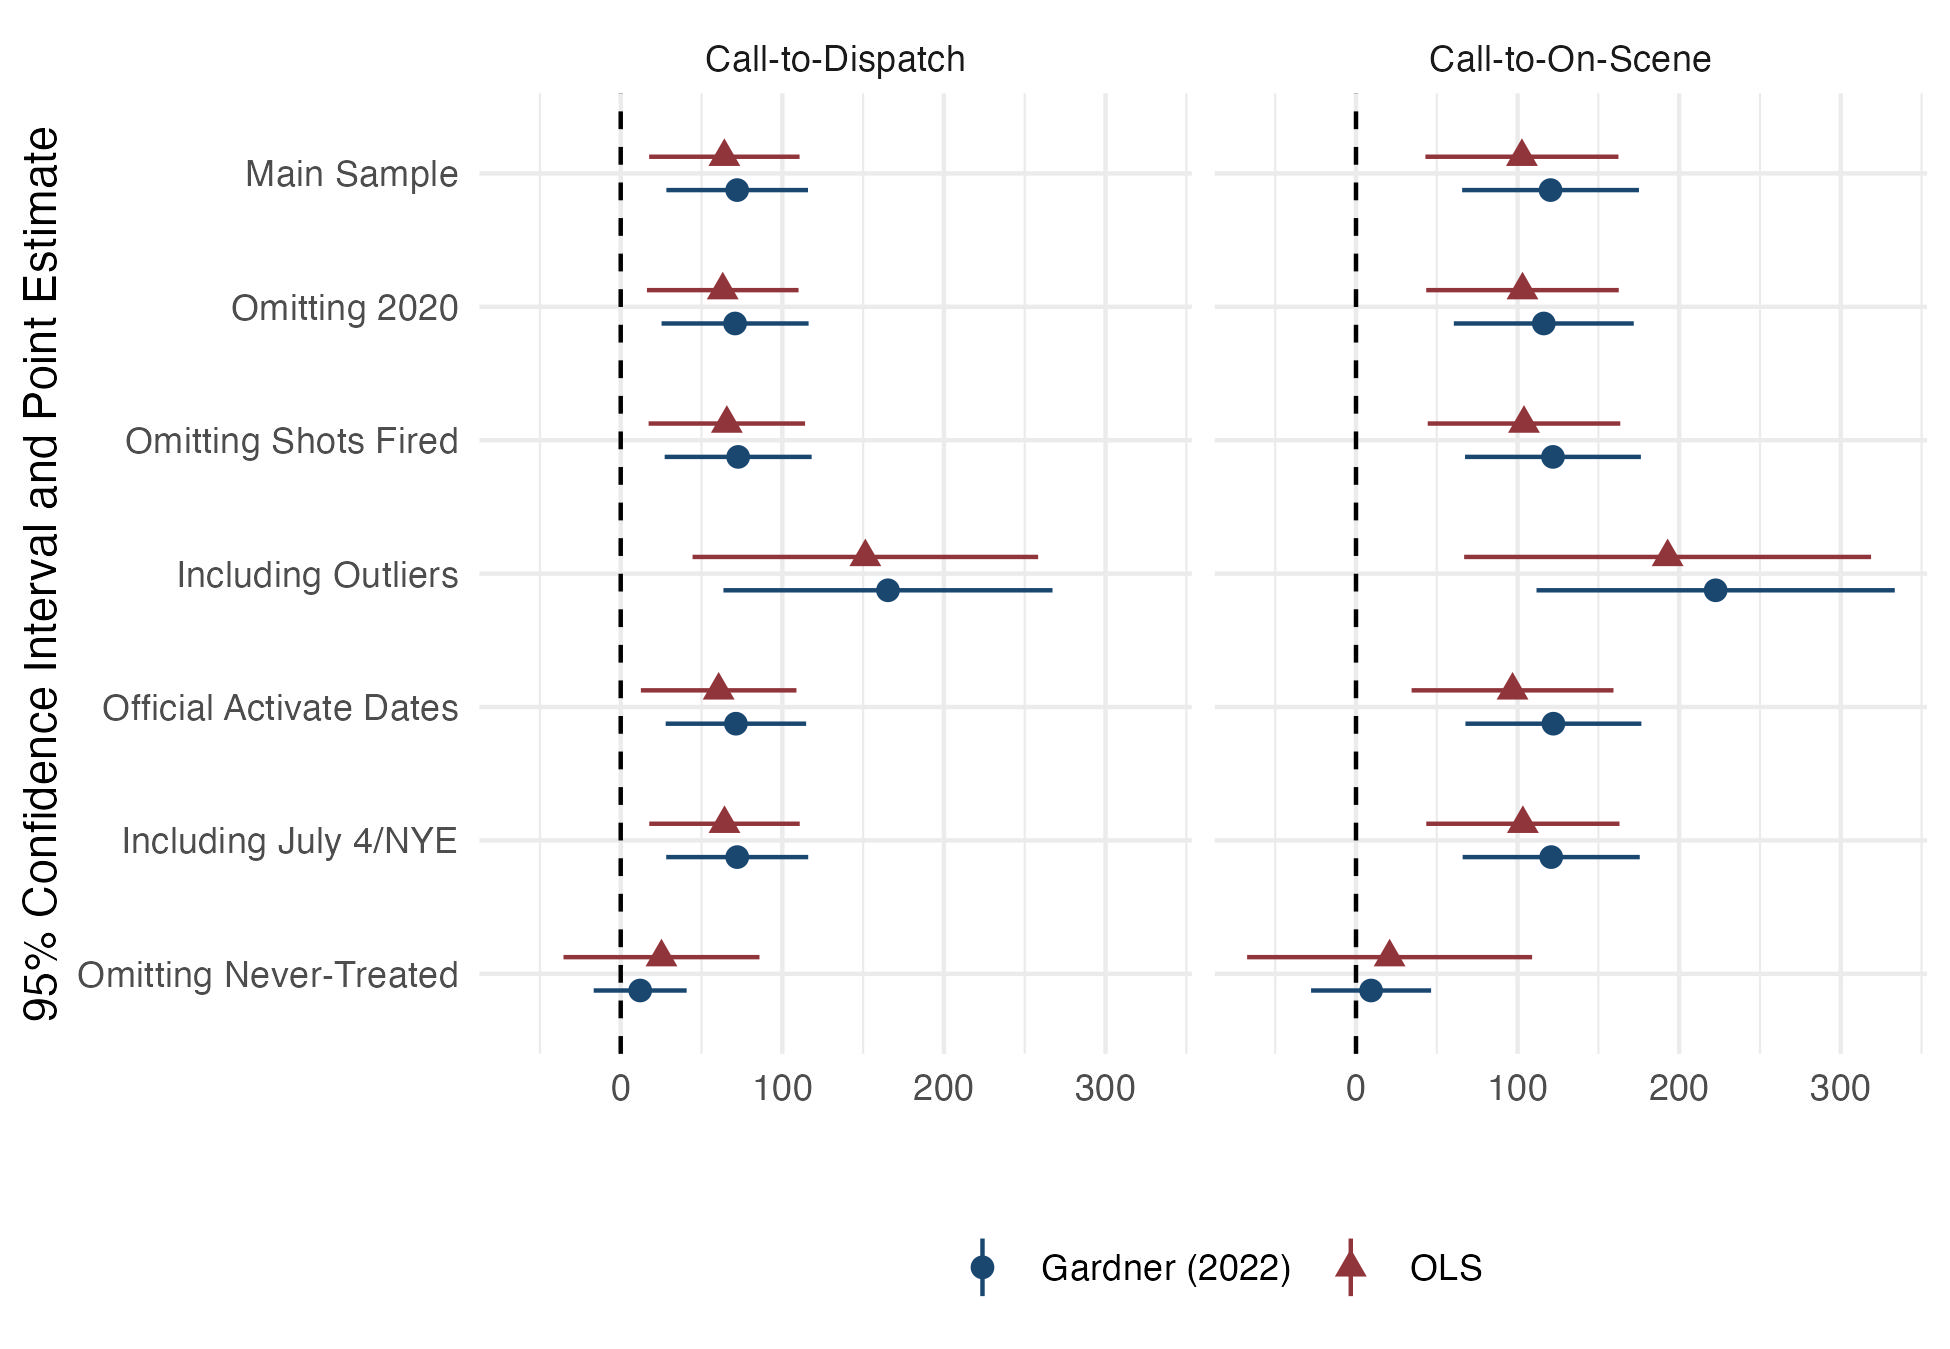
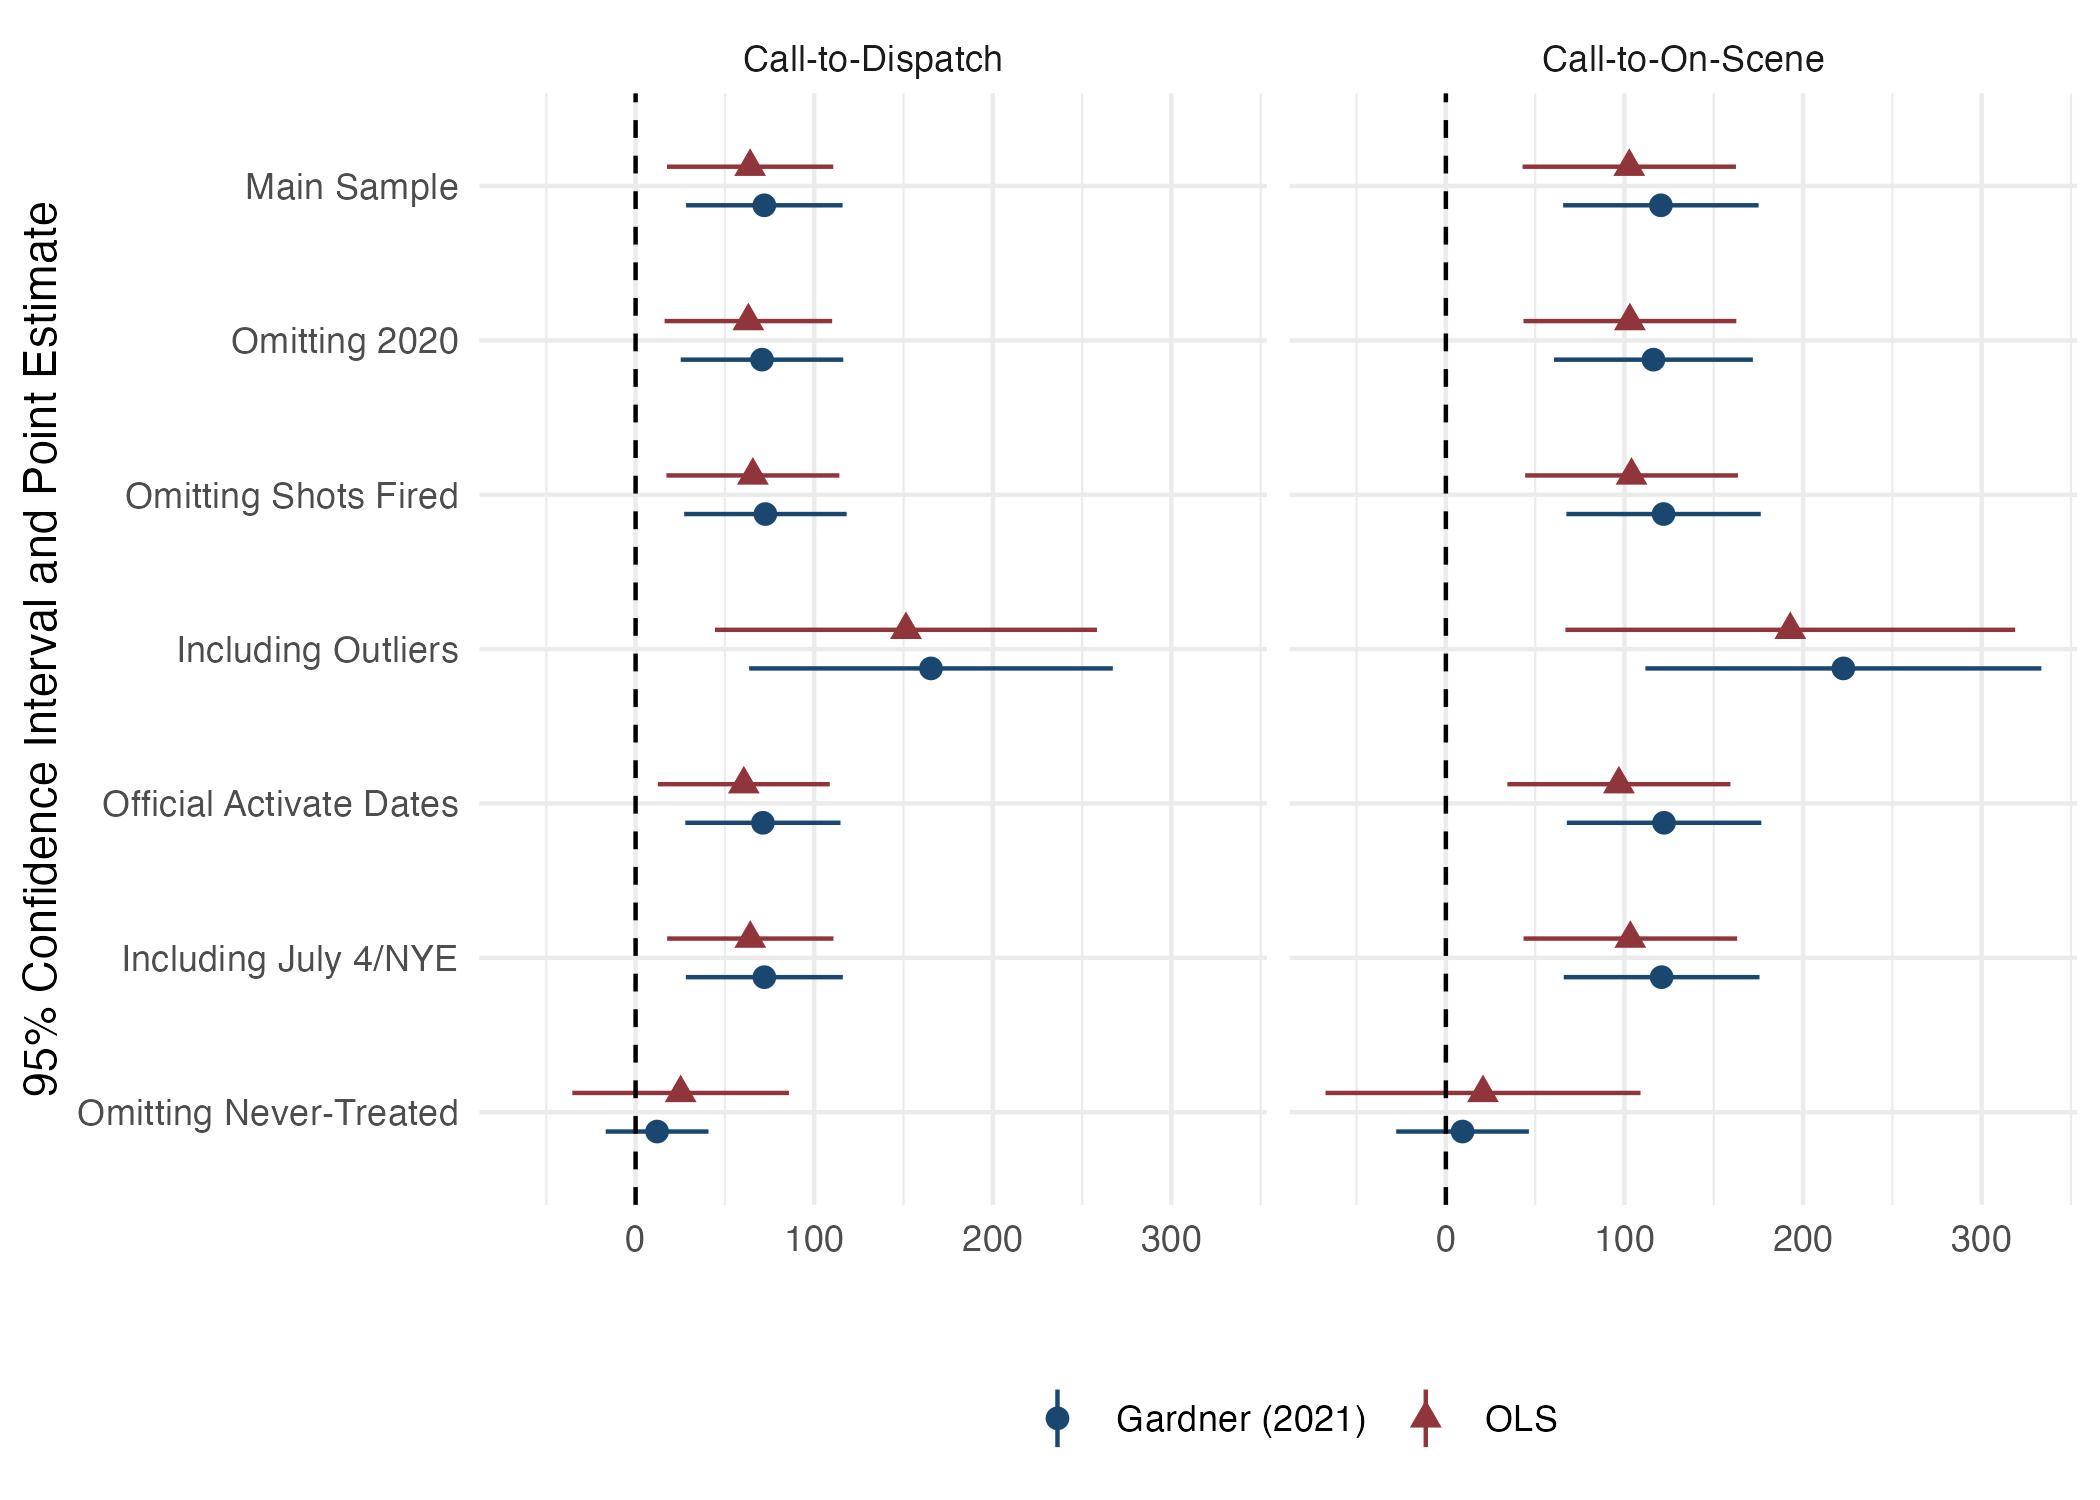
update to figures oct 6

diff --git a/paper/appendix_tables/confounding_table.tex b/paper/appendix_tables/confounding_table.tex
@@ -41,7 +41,7 @@ Gardner (2021) Robust &  & X &  & X &  & X\\
 \begin{tablenotes}
 \item \textit{Note: } 
 \item * p < 0.1, ** p < 0.05, *** p < 0.01
-\item Standard errors are clustered by district.                      Coefficient estimates are in seconds.                      Columns 1 and 2 of Panel A show                       Call-to-Dispatch estimates when controlling for the implementation                      of Strategic                      Decision Support Centers (SDSC). In Columns 3 and 4,                       police districts 7 and 9 are omitted as Kapustin et al. (2022) shows that SDSCs                       affect                      police patrolling in these districts. Panel B is similar to Panel A,                      with the outcome of interest being Call-to-On-Scene times. In Columns 5 and 6,                      we control for Body-Worn Camera (BWC) adoption. Note that in each specification,                      controls are consistent with the preferred specification. OLS estimates are reported                      in odd-numbered columns, while Gardner (2021) robust estimates are reported in even columns.                      The coefficient estimates of controls when using Gardner (2021) estimator are not reported as the                       two-stage method only returns the coefficient estimate of interest on                      the treated variable. In addition, the two-stage procedure may drop observations                      in the first stage if unable to predict values. This happens infrequently as shown                      in the observation counts, but is worth noting. Finally,                      Wild cluster bootstrap p-values using 999 iterations are also reported                  as the number of clusters (22) is below the threshold of 30 put forth in                  Cameron et al. (2008). The bootstrap procedure cannot be performed using the Gardner (2021) estimator.                                                           
+\item Standard errors are clustered by district.                      Coefficient estimates are in seconds.                      Columns 1 and 2 of Panel A show                       Call-to-Dispatch estimates when controlling for the implementation                      of Strategic                      Decision Support Centers (SDSC). In Columns 3 and 4,                       police districts 7 and 9 are omitted as Kapustin et al. (2022) shows that SDSCs                       affect                      police patrolling in these districts. Panel B is similar to Panel A,                      with the outcome of interest being Call-to-On-Scene times. In Columns 5 and 6,                      we control for Body-Worn Camera (BWC) adoption. Note that in each specification,                      controls are consistent with the preferred specification. OLS estimates are reported                      in odd-numbered columns, while Gardner (2021) robust estimates are reported in even columns.                      The coefficient estimates of controls when using Gardner (2021) estimator are not reported as the                       two-stage method only returns the coefficient estimate of interest on                      the treated variable. In addition, the two-stage procedure may drop observations                      in the first stage if unable to predict values. This happens infrequently as shown                      in the observation counts, but is worth noting. Finally,                      wild cluster bootstrap p-values using 999 iterations are also reported                  as the number of clusters (22) is below the threshold of 30 put forth in                  Cameron et al. (2008). The bootstrap procedure cannot be performed using the Gardner (2021) estimator.                                                           
 \end{tablenotes}
 \end{threeparttable}
 \end{table}

diff --git a/paper/tables/victim_table.tex b/paper/tables/victim_table.tex
@@ -6,7 +6,7 @@
 \fontsize{11}{13}\selectfont
 \begin{tabular}[t]{>{\raggedright\arraybackslash}p{8cm}ccc}
 \toprule
-\multicolumn{1}{c}{ } & \multicolumn{3}{c}{Probability of Victim Injury} \\
+\multicolumn{1}{c}{ } & \multicolumn{3}{c}{Likelihood of Victim Injury} \\
 \cmidrule(l{3pt}r{3pt}){2-4}
 \multicolumn{1}{c}{ } & \multicolumn{1}{c}{Pooled} & \multicolumn{1}{c}{Gun Dispatch} & \multicolumn{1}{c}{Non-Gun Dispatch} \\
 \cmidrule(l{3pt}r{3pt}){2-2} \cmidrule(l{3pt}r{3pt}){3-3} \cmidrule(l{3pt}r{3pt}){4-4}

diff --git a/paper/tables/main_results.tex b/paper/tables/main_results.tex
@@ -33,7 +33,7 @@ FE: Call-Type &  & X & X & X & X\\
 FE: Hour-of-Day &  & X & X & X & X\\
 Officer Hours &  &  & X &  & \\
 Number 911 Dispatches &  &  & X &  & \\
-Gardner (2022) Robust &  &  &  & X & \\
+Gardner (2021) Robust &  &  &  & X & \\
 \bottomrule
 \end{tabular}
 \begin{tablenotes}
